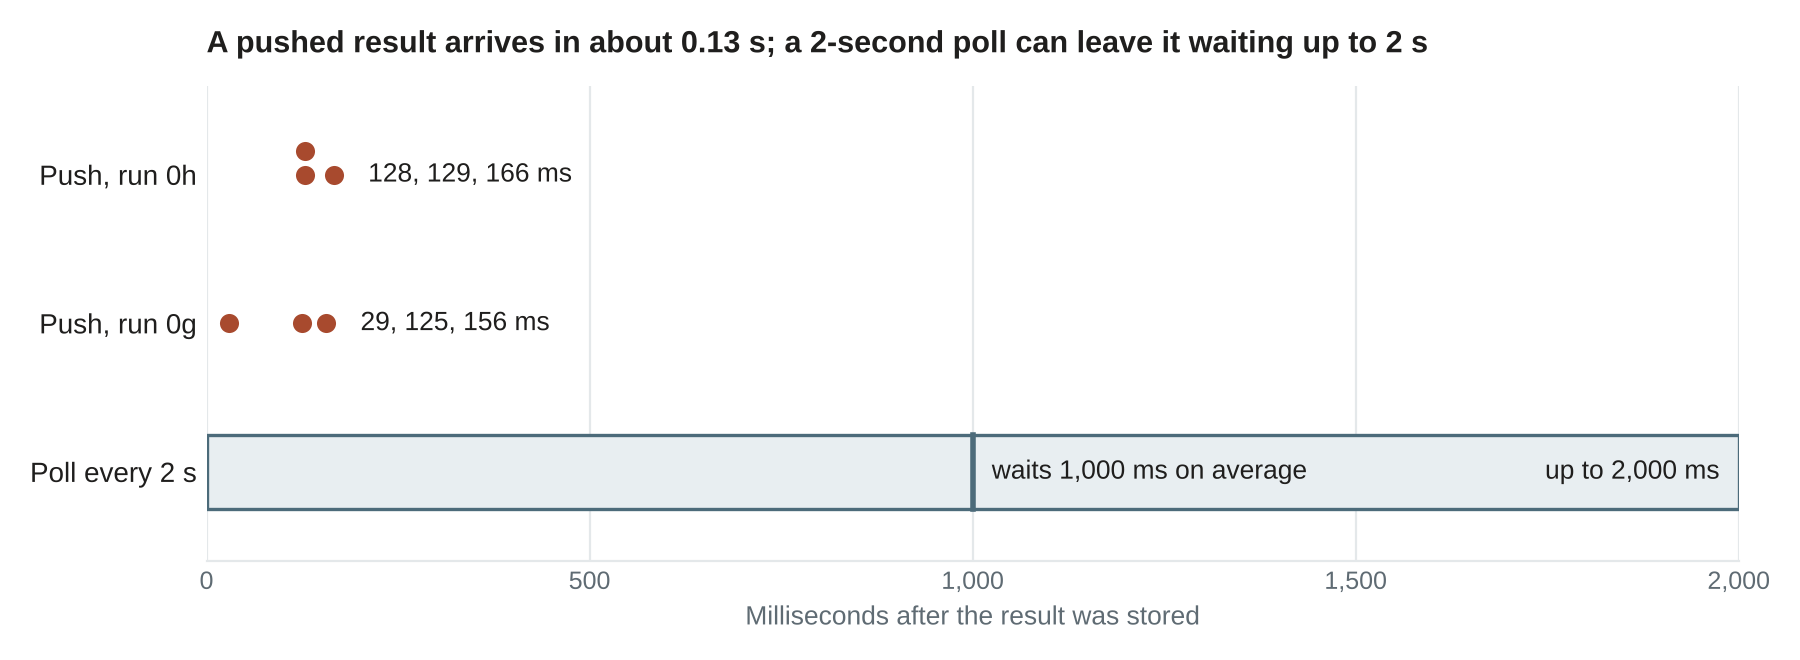
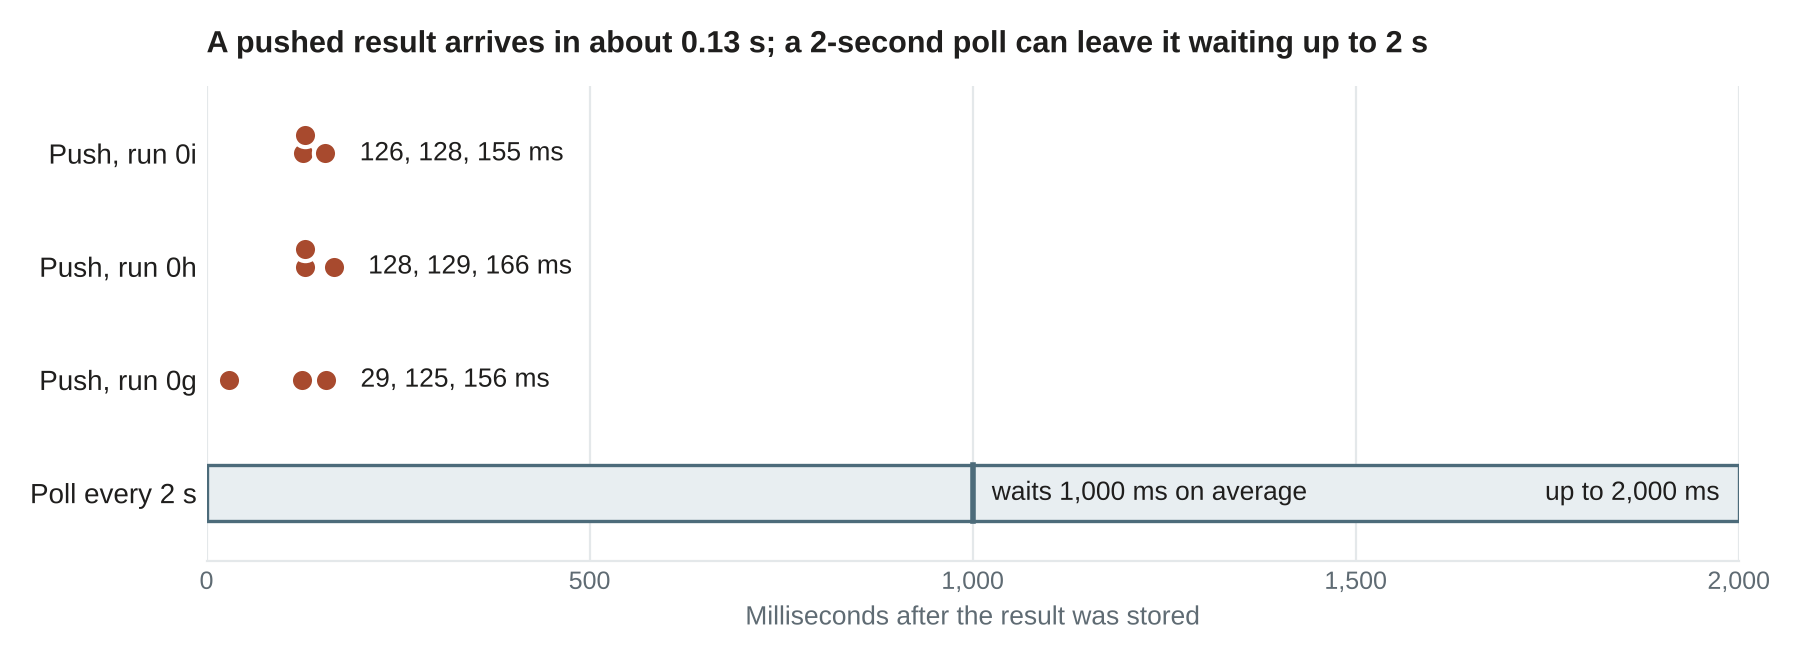
docs(streaming): record Phase 0i (stream tokens and the shared backend on dev) and put it in the article
Adds section 9.12 to the options paper: the token flow on dev (mint 76-101 ms, push lag 155, 126
and 128 ms), the seven negative checks, six 30-socket cycles with 180 of 180 released within
0.20 s, cache connections flat at 9-13 and memory stepping 0.27 points a cycle, and what was not
tested (the API-key path; whether memory levels off). Risk 17 now notes that the API access line
holds the stream token in clear; the to-do list is updated.

The article gets the token-flow figures, the negative-check outcomes and the AWS memory and cache
numbers in place of the local soak; the chart and its data file now hold nine jobs (runs 0g, 0h, 0i).

Claude-Session: https://claude.ai/code/session_01Te3uvSSJAiNMz8czeinNE7

diff --git a/scripts/generate_streaming_figures.py b/scripts/generate_streaming_figures.py
@@ -3,7 +3,7 @@
 
 Reasoning:
 - The plotted push delays are read from docs/data/streaming-push-lag-dev.csv (the six jobs of
-  runs 0g and 0h in docs/plan-streaming-quotes-in-results-out.md section 9.9), and the poll
+  runs 0g, 0h and 0i in docs/plan-streaming-quotes-in-results-out.md sections 9.9 and 9.12), and the poll
   band's width from the shipped setting var_stream_poll_interval_seconds in config.py, so the
   figure cannot drift from the numbers in the article.
 - Same house look as scripts/generate_plugin_figures.py (slate and clay on white). The poll
@@ -45,7 +45,7 @@ def read_push_lags() -> dict[str, list[int]]:
     with LAG_CSV.open(encoding="utf-8", newline="") as handle:
         for row in csv.DictReader(handle):
             runs.setdefault(row["run"], []).append(int(row["lag_ms"]))
-    g.need(len(runs) == 2, f"expected two runs in {LAG_CSV.name}, found {sorted(runs)}")
+    g.need(len(runs) == 3, f"expected three runs in {LAG_CSV.name}, found {sorted(runs)}")
     g.need(all(len(v) == 3 for v in runs.values()), "expected three jobs per run")
     return runs
 
@@ -57,7 +57,10 @@ def fig_push_lag_vs_poll(out: Path) -> Path:
     g.need(max(all_lags) < poll_ms / 4, "push delays are no longer small against the poll band")
 
     fig, ax = plt.subplots(figsize=(9.0, 3.3))
-    rows = [("Poll every 2 s", 0.0), ("Push, run 0g", 1.0), ("Push, run 0h", 2.0)]
+    run_names = sorted(runs)
+    rows = [("Poll every 2 s", 0.0)] + [
+        (f"Push, run {run}", float(i)) for i, run in enumerate(run_names, 1)
+    ]
 
     # The band a poll could return the result in: anywhere between 0 and one interval.
     ax.barh(0.0, poll_ms, height=0.5, color=g.SLATE_FILL, edgecolor=g.SLATE, linewidth=1.2)
@@ -81,8 +84,8 @@ def fig_push_lag_vs_poll(out: Path) -> Path:
         color=g.INK,
     )
 
-    for run, y in (("0g", 1.0), ("0h", 2.0)):
-        lags = runs[run]
+    for run, y in ((run, float(i)) for i, run in enumerate(run_names, 1)):
+        lags = sorted(runs[run])
         # Dots closer than one marker width would hide each other: step the later one up.
         ys = [y + (0.16 if i and lag - lags[i - 1] < 8 else 0.0) for i, lag in enumerate(lags)]
         ax.scatter(
@@ -106,7 +109,7 @@ def fig_push_lag_vs_poll(out: Path) -> Path:
 
     ax.set_yticks([y for _, y in rows])
     ax.set_yticklabels([label for label, _ in rows], fontsize=10, color=g.INK)
-    ax.set_ylim(-0.6, 2.6)
+    ax.set_ylim(-0.6, len(run_names) + 0.6)
     ax.set_xlim(0, poll_ms)
     ax.set_xticks([0, 500, 1000, 1500, poll_ms])
     ax.set_xticklabels([f"{t:,}" for t in (0, 500, 1000, 1500, poll_ms)], fontsize=9, color=g.MUTED)

diff --git a/docs/plan-streaming-quotes-in-results-out.md b/docs/plan-streaming-quotes-in-results-out.md
@@ -476,7 +476,8 @@ at least a few real users; legal position on §3.9.
 17. **Tokens in logs:** `?token=<JWT>` lands in the API log group (30-day retention) as
     well as CloudFront's standard logs (§3.7). The result stream now has a 60 s, one-task token
     for this (§3.7), so a logged URL is dead a minute later; a session JWT is still accepted
-    there and would still be logged for its hour.
+    there and would still be logged for its hour. 0i confirmed the API access line holds the
+    stream token in clear (§9.12); the CloudFront logs were not checked.
 18. **Pub/Sub on the cache:** the dev cache refuses pattern subscriptions (§9.8), so only
     per-channel `SUBSCRIBE` and `PUBLISH` are used. Pub/Sub keeps nothing, so every stream
     path keeps a state read behind the push (§9.9).
@@ -505,9 +506,10 @@ at least a few real users; legal position on §3.9.
 
 ## 9. Phase 0 results
 
-Eight measurement runs by a delegated AWS agent against the dev stack: Phase 0
+Nine measurement runs by a delegated AWS agent against the dev stack: Phase 0
 (2026-10-22), 0b and 0c (2026-10-23), 0d (late on 2026-10-23, UTC), 0e (2026-10-24), 0f and
-0g (2026-10-25) and 0h (2026-10-26), plus one `/health` sample on prod. The numbers are the
+0g (2026-10-25), 0h (2026-10-26) and 0i (after #403 was deployed, §9.12), plus one `/health`
+sample on prod. The numbers are the
 agent's; the code readings are mine. §9.7 reports local reproductions in my sandbox (a
 TLS-only Redis, the real app under uvicorn with two workers), which are not AWS numbers.
 
@@ -525,7 +527,7 @@ TLS-only Redis, the real app under uvicorn with two workers), which are not AWS 
 
 Defects 5 and 6 were introduced by the fixes for 3 and 4 and found by re-measuring them.
 Defect 7 (§9.11) was found by profiling the per-cycle memory step (§9.9) locally and is
-fixed in #403; the step has not been re-measured on dev.
+fixed in #403 and re-measured on dev in 0i (§9.12).
 
 ### 9.1 Compute latency (in-process, 0.5 vCPU Fargate task, no network)
 
@@ -604,8 +606,9 @@ fixed in #403; the step has not been re-measured on dev.
   "succeeded in" time, ±15 ms), with the socket opened 157-282 ms before each job
   finished. A job already finished when the socket opens is answered in 21 ms (22 kB). With the
   shared subscriber on dev: **29, 125 and 156 ms** (0g) and **128, 129 and 166 ms** (0h),
-  ±10 ms. In between, while the cache refused the pattern subscription and every socket
-  polled every 2 s, 1.69, 1.84 and 1.87 s (0f).
+  ±10 ms, and **155, 126 and 128 ms** (0i, opened with a stream token, §9.12). In between,
+  while the cache refused the pattern subscription and every socket polled every 2 s, 1.69,
+  1.84 and 1.87 s (0f).
 - Cold start: with the worker group at zero, a job waited 159 s from POST to worker
   pickup (an earlier run) and 162 s from POST to success (0e, including 6.2 s on the cold
   task).
@@ -741,9 +744,12 @@ at once for a new waiter.
 
 ### 9.10 Still to do
 
-- Re-run the 30-socket cycles on dev with #403 deployed (a "0i"): the local numbers of §9.11
-  do not reproduce the size of the step seen on AWS (2-4 MiB a cycle), so only a dev run can say
-  what it is now. Also the soak's remaining native growth (§9.11).
+- A longer dev soak (about 40 cycles of 30 sockets) to see whether memory levels off: at the
+  0.27 points a cycle of 0i the 85% mark is about 70 cycles away if the line is straight (§9.12).
+  The AWS step is about fourteen times the local one and that is unexplained.
+- Redact `token=` in the API access line (§3.7, risk 17), and check the CloudFront logs.
+- The API-key path on dev: 0i could not create a test user (the dev database is private, with no
+  Data API), so minting with a real key has only been tested locally.
 - Give the refusal and disconnect log lines their context (task id, reason, open streams).
 - Probe the caps above 25 sockets per worker and 5 per user on dev; the 30-socket cycles of
   0h never reached them.
@@ -789,8 +795,74 @@ not in the repository).
   located.
 - **What this does not say.** On AWS the step was +0.2 to +0.4 points of 1 GiB a cycle (2-4 MiB),
   ten or more times the local figure for the same 30 sockets. The sandbox reproduces the mechanism
-  and the direction, not the size. Whether the AWS step falls, and by how much, needs a dev run
-  (§9.10).
+  and the direction, not the size. The dev run with #403 deployed is §9.12: the cache connections
+  stopped stepping, the memory step fell to 0.27 points a cycle (about 2.8 MiB), still about
+  fourteen times the local 0.2 MiB.
+
+### 9.12 #403 on dev (0i)
+
+Image `pyvar-dev-api:40893c3`, one task, rollout completed; an unauthenticated POST to the mint
+route returned 401 (so the change is deployed).
+
+- **Token flow, three jobs of 500,000 simulations.** Mint 76, 101 and 81 ms (200, `Cache-Control:
+  no-store`, `x-cache: Miss from cloudfront`, `expires_in` 60); frames 1,753, 1,751 and 1,755
+  bytes; push lag **155, 126 and 128 ms** (median 128; the agent's clock was 29-32 ms behind and
+  was corrected, ±10 ms). The socket opened 55-126 ms before the worker's log line, so each job
+  was in flight, with little margin: the mint sits between the POST and the socket and takes 76-101
+  ms, and a faster job could finish first.
+- **Claims** of one token: `aud` `pyvar-stream`, `tid` equal to the task id, `exp - iat` 60, no
+  tier; the claims are `aud`, `exp`, `iat`, `sub`, `tid`.
+- **Negative checks**, all as designed (every socket answered 101, then closed):
+
+| Check | Result |
+|---|---|
+| Token minted for task X used on task Y | close 1008 "Invalid or expired token" |
+| No token | 1008 "Missing token" |
+| `pyvar_` plus 43 random characters as the token | 1008 "Invalid or expired token" |
+| Mint, wait 65 s, open | 1008 "Invalid or expired token" |
+| Stream token as Bearer on `GET /var/result/{id}`, `POST /auth/api-keys`, `POST /var/stream-token/{id}` | 401 "Invalid or expired token: Invalid audience", each |
+| Service JWT as `?token=` on a finished job | the frame (1,753 bytes) |
+| Mint with no Authorization / with id `a b` | 401 "Not authenticated" / 422 `string_pattern_mismatch` |
+
+- **Not tested: the API-key path.** No test key under `pyvar/dev/`; the dev Aurora cluster is
+  private (10.0.4.17, port 5432 times out from the agent's host) with no Data API; a verified user
+  needs a database read or write, and ECS Exec or a one-off task would be service changes. Nothing
+  was registered or created.
+- **The stream token is in the API log in clear.** All three request lines read
+  `WebSocket /api/v1/var/stream/{id}?token=<token> [accepted]`. It is good for 60 s and one task,
+  but redacting `token=` in that line would close the gap. The CloudFront edge logs were not
+  checked.
+- **Six cycles of 30 sockets** (hold 30 s, watch 2 min). 180 of 180 handshakes returned 101
+  (median 81-83 ms per cycle, worst 152 ms); no refusals; every closed socket was released within
+  0.20 s (median 0.04-0.10 s per cycle); `/health` 88 calls, all 200, 72-140 ms.
+- **Memory and cache connections** (1-minute CloudWatch; "before" is the last full minute before
+  a cycle's first socket):
+
+| Cycle | Memory % before / hold / T+1 / T+2 | Cache connections |
+|---|---|---|
+| 1 | 63.95 / 64.40 / 64.45 / 64.45 | 10 / 13 / 12 / 13 |
+| 2 | 64.45 / 64.55 / 64.55 / 64.55 | 12 / 13 / 11 / 13 |
+| 3 | 64.55 / 64.75 / 64.75 / 64.81 | 11 / 13 / 11 / 11 |
+| 4 | 64.75 / 64.89 / 64.94 / 65.06 | 11 / 11 / 9 / 11 |
+| 5 | 64.94 / 65.23 / 65.33 / 65.33 | 9 / 12 / 11 / 11 |
+| 6 | 65.33 / 65.53 / 65.53 / 65.53 | 11 / 13 / 13 / 11 |
+
+  The memory "before" stepped +0.50, +0.10, +0.20, +0.20, +0.39 points (mean 0.27, about 2.8 MiB;
+  0h's cycles 2-6 averaged 0.49), with no decay to zero in six cycles. The cache connections did
+  not step: 10, 12, 11, 11, 9, 11 before each cycle (0h reached 22-28). Five minutes after the
+  last cycle: memory 65.53% (flat for the previous six minutes), cache 11, CPU 1.10%; the task
+  had started at 61.82% and 5 connections, and the four jobs and eight sockets of Part 1 alone
+  took it to 63.95%. CPU at hold was 1.7-3.2% (0h: 3.1-4.5%).
+- **Failure lines.** None: 0 "Shared job-done subscriber failed" and 0 ERROR from the task's start
+  to the end of the run (2 h 22 min, 58 live checks). The `ssl_cert_reqs` warning from Redis client
+  creation appeared 4 times in the task's life, three at startup, against 67-74 a run before; the
+  agent's inference is that this fits one shared backend.
+- **Not shown.** Whether memory levels off (six cycles; at 0.27 points a cycle, 85% is about 70
+  cycles away if the line is straight); the caps (30 sockets over two processes never reach 25 per
+  process); a cold start (the warm-up took 6 s because a worker was warm); cycle 1's "before" falls
+  inside the tail of Part 1.
+- **Against the local run (§9.11).** 2.8 MiB a cycle on AWS against 0.2 MiB locally for the same 30
+  sockets: the sandbox does not reproduce the size, and the difference has no explanation yet.
 
 ---
 

diff --git a/docs/publications/pyvar-streaming-results-medium-article.md b/docs/publications/pyvar-streaming-results-medium-article.md
@@ -110,12 +110,14 @@ For a 10,000-path job on a year of synthetic daily returns, a local run of this 
 | Too many open streams | Close 1013 ("Too many open streams on this server" or "...for this account"): poll instead, or retry later |
 | Nothing after 900 seconds | A frame with status `pending` and the text "Timed out waiting for job completion - the job may still be running; poll GET /var/result/{task_id} to check.", then close 1000 |
 
+All of these were exercised on dev. A stream token minted for one task and used on another closes 1008, and so does one used after 65 seconds. A stream token sent as a bearer token to `GET /var/result/{id}`, to `POST /auth/api-keys` or to `POST /var/stream-token/{id}` is refused with 401 ("Invalid audience"). Minting without a credential gives 401, and a malformed task id gives 422. A session token as `?token=` on a finished job still returns the frame.
+
 Four practical notes:
 
 - **One socket per job.** Open it after the `202`. A job that is already done is answered before the stream limits apply.
 - **Limits.** Waiting streams are capped per server process: 25 in all and 5 per account, with two processes in each API container. At the cap you get 1013, and the poll endpoint still works.
 - **HTTP/1.1 only.** A WebSocket cannot upgrade over HTTP/2. Browsers and the common libraries handle this; if you build your own TLS context, offer `http/1.1` and not `h2`. The server pings every 20 seconds, and standard clients answer on their own.
-- **Keep the key out of the URL.** The stream takes a stream token, or a session token, and never an API key: URLs are logged by the API and by the CDN in front of it. A stream token is worth nothing a minute later, so a logged URL is harmless; a session token lasts an hour, so prefer the stream token. Like the poll endpoint, the stream answers any signed-in caller who holds the task id, and task ids are random UUIDs, so treat one like a secret in shared logs.
+- **Keep the key out of the URL.** The stream takes a stream token, or a session token, and never an API key: URLs are logged by the API and by the CDN in front of it. The API's access log does record the full URL, token included, so what matters is that a stream token is worth nothing a minute later: a logged URL is harmless; a session token lasts an hour, so prefer the stream token. Like the poll endpoint, the stream answers any signed-in caller who holds the task id, and task ids are random UUIDs, so treat one like a secret in shared logs.
 
 ## How it performs
 
@@ -123,21 +125,24 @@ All measurements are from `dev.pyvar.com`: 0.5 vCPU and 1 GiB per API container,
 
 | Measure | Result |
 |---|---|
-| Frame after the worker stored the result | 128, 129 and 166 ms in the latest run; 29, 125 and 156 ms in the one before |
+| Minting a stream token | 76, 81 and 101 ms |
+| Frame after the worker stored the result | 126, 128 and 155 ms in the latest run, opened with a stream token; 128, 129 and 166 ms and 29, 125 and 156 ms in the two before |
 | Socket opened on a job that had already finished | 21 ms (one measurement, a 22 kB frame) |
-| WebSocket handshake through the edge | 73 to 158 ms |
-| Server frees a closed client's slot | within 0.22 s, for 180 of 180 sockets |
-| Errors and failure log lines over 79 minutes of repeated 30-socket cycles | 0 |
+| WebSocket handshake through the edge | median 81 to 83 ms in each cycle, worst 152 ms, 180 of 180 returned 101 |
+| Server frees a closed client's slot | within 0.20 s, for 180 of 180 sockets |
+| Errors and failure log lines over the 2 h 22 min the task ran, including six 30-socket cycles | 0 |
+| API container, idle | 61.8% of 1 GiB memory, 1.1% CPU, 5 cache connections |
+| API container with 30 sockets held | 1.7 to 3.2% CPU; 9 to 13 cache connections in every cycle |
 
 Against polling every 2 seconds, the arithmetic is simple: a result stored at a random moment waits between 0 and 2 seconds for the next poll, 1 second on average, while the push takes around 0.13 s. The saving is largest for short jobs and for interfaces where a person is watching a spinner. For a long batch, polling every few seconds costs nothing noticeable.
 
-![Strip chart: the six measured push delays, 29 to 166 ms, against the 0 to 2000 ms band in which a 2-second poll would have returned the same result.](./assets/streaming-results/push-lag-vs-poll.png)
+![Strip chart: the nine measured push delays, 29 to 166 ms, against the 0 to 2000 ms band in which a 2-second poll would have returned the same result.](./assets/streaming-results/push-lag-vs-poll.png)
 
-*Frame arrival after the result was stored: six measured jobs against the band a 2-second poll covers.*
+*Frame arrival after the result was stored: nine measured jobs against the band a 2-second poll covers.*
 
 What streaming does not change is everything before the result is stored. On dev, with the worker pool at zero (it scales to zero about four minutes after the last job), one job took 162 seconds from POST to success, 6.2 s of it on the cold worker. And the compute itself is whatever the job needs: the other 385 functions are ordinary synchronous calls, and measured in-process on the same container size 371 of their 386 example requests had a median under 50 ms (overall median 5.9 ms), the slowest being the rough-volatility pricer at about 4 seconds.
 
-**Holding sockets open.** The per-process limits (25 and 5) are configuration, not a measured maximum: the latest AWS run held 30 sockets at a time across the container. Memory under churn is the figure to watch. In a 150-cycle local soak of the same code (30 sockets opened and closed per cycle, two server processes, a TLS Redis on the same machine, so not AWS numbers), the processes' combined memory had grown by 23 MiB after 10 cycles, 32 after 50, 36 after 100 and 48 after 150, with no errors and never more than 10 connections to the cache. At the end that is about 0.2 MiB per cycle, roughly 7 KiB per socket, and it had not levelled off. A bare WebSocket route with no pyvar code in it, run the same way, grew by 0.06 to 0.12 MiB per cycle, so about half of that is the server framework itself. Read it as: each socket leaves a few KiB behind in a long-lived process. How much that matters depends on how many sockets a container serves between restarts, and the size of the step on AWS has not been re-measured.
+**Holding sockets open.** The per-process limits (25 and 5) are configuration, not a measured maximum: the latest AWS run held 30 sockets at a time across the container, six times, and no socket was ever refused. Memory under churn is the figure to watch. The container's memory was 63.95% just before the first cycle and 65.53% after the sixth, with each cycle adding between 0.1 and 0.5 points: 0.27 on average, about 3 MiB for 30 sockets opened and closed. It had not levelled off after six cycles, and then stayed flat at 65.53% for the five minutes that followed. The cache connections did not grow: 9 to 13 in every cycle. Extrapolated in a straight line, which six cycles cannot confirm, the 85% mark is about 70 such cycles, or roughly 2,000 sockets, away. A longer run on dev to see whether it levels off has not been done.
 
 ## Sources
 
@@ -146,6 +151,6 @@ What streaming does not change is everything before the result is stored. On dev
 - [`tasks/var_task.py`](https://github.com/fibtecltd/pyvar/blob/master/tasks/var_task.py): the worker's completion signal.
 - [`config.py`](https://github.com/fibtecltd/pyvar/blob/master/config.py): the 900 s wait, the stream limits, the 10 s safety re-read.
 - [`docs/plan-streaming-quotes-in-results-out.md`](https://github.com/fibtecltd/pyvar/blob/master/docs/plan-streaming-quotes-in-results-out.md), section 9: the measurement runs behind the table above. [`docs/data/streaming-phase0d-latency.csv`](https://github.com/fibtecltd/pyvar/blob/master/docs/data/streaming-phase0d-latency.csv): the per-function latencies.
-- [`docs/data/streaming-push-lag-dev.csv`](https://github.com/fibtecltd/pyvar/blob/master/docs/data/streaming-push-lag-dev.csv): the six push delays in the chart.
+- [`docs/data/streaming-push-lag-dev.csv`](https://github.com/fibtecltd/pyvar/blob/master/docs/data/streaming-push-lag-dev.csv): the nine push delays in the chart.
 
-*How this was made: written with Claude Code. The AWS measurements were taken by a scripted agent on the dev stack and are quoted from its reports; the example frame and the memory soak were run locally on the code in this repository.*
+*How this was made: written with Claude Code. The AWS measurements were taken by a scripted agent on the dev stack and are quoted from its reports; the example frame was produced locally on the code in this repository. Minting with a real API key is covered by the test suite but was not run on dev, where the agent minted with a service session token.*
